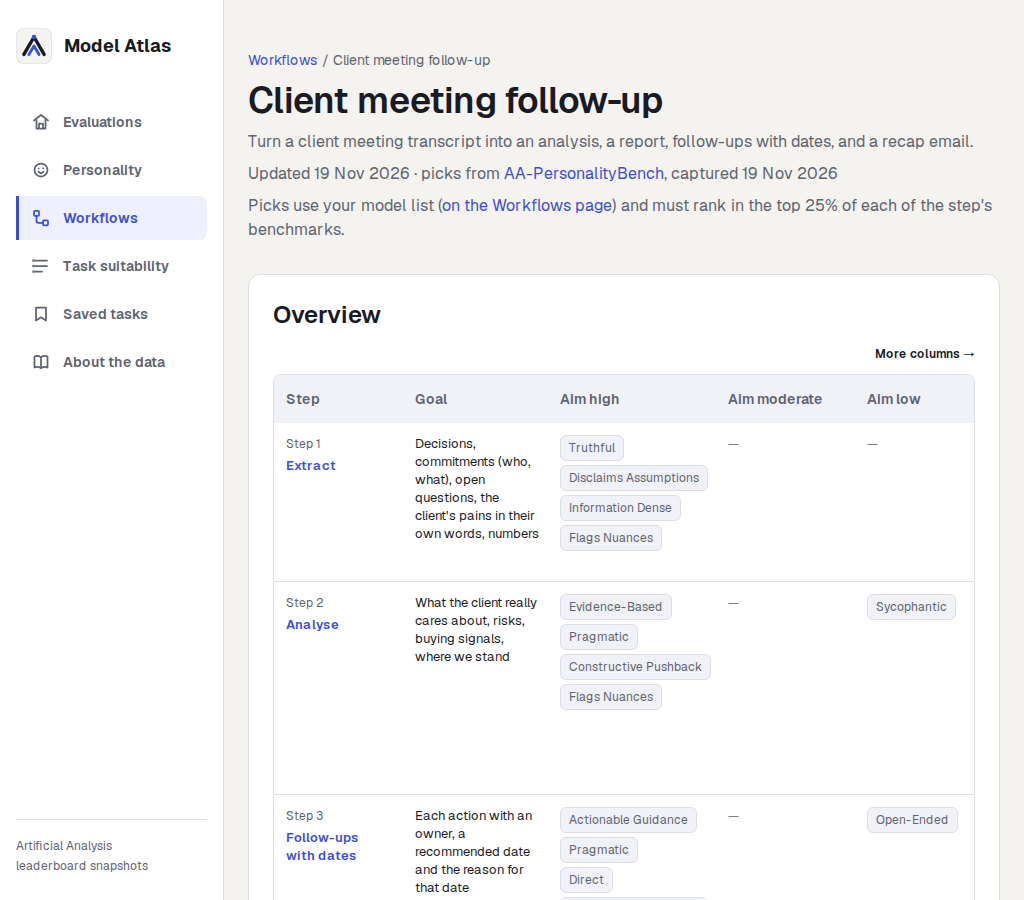
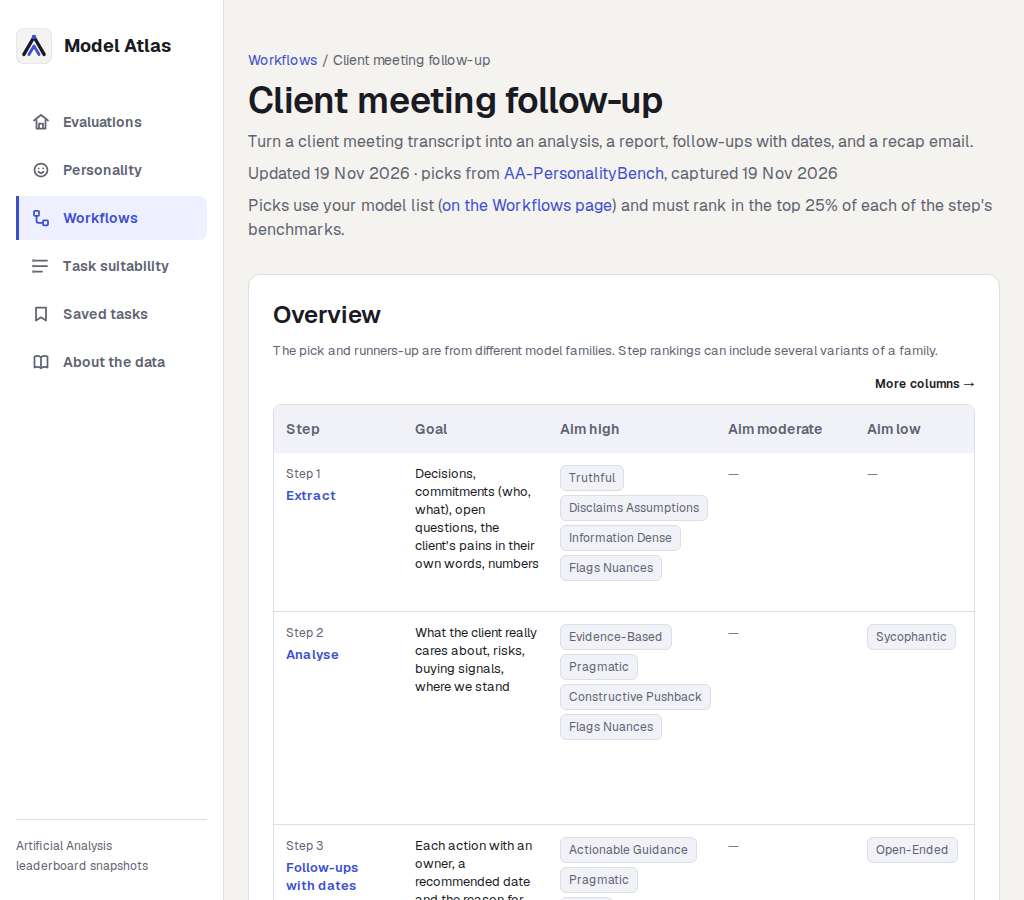
fix: clarify workflow rankings and phone scrolling
Explain distinct-family picks and phone column order, fill the catalog row, and recapture the hydrated fixture and shared workflow views.

diff --git a/tests/workflows.test.ts b/tests/workflows.test.ts
@@ -191,7 +191,7 @@ test("step notes show up to three higher-Fit families for each reason and every 
       { slug: omniscience, rank: 7, cohortSize: 16, barRank: 4 },
     ]],
     ["Beacon", [{ slug: briefcase, rank: null, cohortSize: 15, barRank: 3 }]],
-    ["Off-list miss", [{ slug: briefcase, rank: 8, cohortSize: 15, barRank: 3 }]],
+    ["Juniper", [{ slug: briefcase, rank: 8, cohortSize: 15, barRank: 3 }]],
   ]);
   assert.deepEqual(notOnList.map(row => row.model.name), ["Alternate (Max)", "Backup", "Contender"]);
   assert.deepEqual(skippedEvaluations, []);
@@ -543,8 +543,8 @@ test("a step with no pick shows a dash and explains why in the overview and deta
   assert.match(detail, noPick);
   assert.doesNotMatch(overview, /class="workflow-runners-up"/);
   assert.doesNotMatch(detail, /<table/);
-  assert.match(detail, /No model on your list clears the bar.*Higher Fit, below the bar.*Atlas \(Max\) \(Fit 99\): Briefcase v1\.1 #6 of 15, bar #3 \/ Omniscience Index #7 of 16, bar #4/);
-  assert.match(detail, /Beacon \(Fit 97\): Briefcase v1\.1 Not ranked, bar #3/);
+  assert.match(detail, /No model on your list clears the bar.*Higher Fit, below the bar.*Atlas \(Max\), Fit\u00a099: Briefcase v1\.1 #6 of 15, bar #3 \/ Omniscience Index #7 of 16, bar #4/);
+  assert.match(detail, /Beacon, Fit\u00a097: Briefcase v1\.1 Not ranked, bar #3/);
   assert.doesNotMatch(detail, /Higher Fit, not on your list/);
 });
 
@@ -556,12 +556,15 @@ test("the overview renders one runner-up and the detail ranks just the two eligi
     cells: Object.fromEntries(benchmarkStep.evaluations.map(slug => [slug, rankCell(slug, 2)])),
   }];
   const { overview, detail } = renderBenchmarkStep(benchmarkStep, dataset, masterRows);
+  assert.match(overview, /The pick and runners-up are from different model families\. Step rankings can include several variants of a family\./);
+  assert.match(overview, /Scroll past Pick for the goal, aims, and runners-up\./);
+  assert.match(overview, /<table aria-describedby="workflow-overview-help"/);
   const runners = overview.match(/<ul class="workflow-runners-up">(.*?)<\/ul>/)?.[1] ?? "";
   assert.match(runners, /<li><span class="workflow-pick-name">Runner-up<\/span>/);
   assert.equal(runners.match(/<li>/g)?.length, 1);
   assert.deepEqual(Array.from(detail.matchAll(/<td class="workflow-pinned workflow-model">([^<]+)<\/td>/g), match => match[1]), ["Pick", "Runner-up"]);
   assert.match(detail, /Only models on your list that clear the bar are ranked/);
-  assert.match(detail, /<\/table>.*Higher Fit, not on your list<\/strong> · Alternate \(Max\) \(Fit 93\)/);
+  assert.match(detail, /<\/table>.*Higher Fit, not on your list<\/strong> · Alternate \(Max\), Fit\u00a093/);
 });
 
 test("a skipped evaluation keeps its unranked column and names the benchmark once below the table", () => {

diff --git a/src/components/workflow-view.tsx b/src/components/workflow-view.tsx
@@ -52,6 +52,10 @@ function ModelPick({ row }: { row: RankedWorkflowModel }) {
   </>;
 }
 
+function noteModelLabel({ model, fit }: RankedWorkflowModel) {
+  return `${model.name}, Fit\u00a0${formatPercentile(fit)}`;
+}
+
 function WorkflowOverview({ steps, dataset, masterRows }: {
   steps: LabeledStep[];
   dataset: PersonalityDataset;
@@ -59,8 +63,12 @@ function WorkflowOverview({ steps, dataset, masterRows }: {
 }) {
   return <Card className="master workflow-table-card" aria-labelledby="workflow-overview">
     <h2 id="workflow-overview">Overview</h2>
+    <HelperText id="workflow-overview-help">
+      The pick and runners-up are from different model families. Step rankings can include several variants of a family.{" "}
+      <span className="workflow-overview-phone-help">Scroll past Pick for the goal, aims, and runners-up.</span>
+    </HelperText>
     <TableScroll label="Workflow overview, scroll horizontally for more columns" showOverflowCue>
-      <Table className="workflow-overview-table">
+      <Table className="workflow-overview-table" aria-describedby="workflow-overview-help">
         <thead><tr>
           <th scope="col" className="workflow-pinned">Step</th>
           <th scope="col" className="workflow-mobile-pick">Pick</th>
@@ -165,17 +173,17 @@ function WorkflowStepDetail({ step, dataset, masterRows }: {
     </TableScroll>}
     {belowBar.length > 0 && <HelperText>
       <strong>Higher Fit, below the bar</strong>{" · "}
-      {belowBar.map(({ model, fit, missedEvaluations }) => {
-        const misses = missedEvaluations.map(({ slug, rank, cohortSize, barRank }) => {
+      {belowBar.map(row => {
+        const misses = row.missedEvaluations.map(({ slug, rank, cohortSize, barRank }) => {
           const position = rank === null ? "Not ranked" : `#${rank} of ${cohortSize}`;
           return `${evaluationLabel(slug)} ${position}, bar #${barRank}`;
         });
-        return `${model.name} (Fit ${formatPercentile(fit)}): ${misses.join(" / ")}`;
+        return `${noteModelLabel(row)}: ${misses.join(" / ")}`;
       }).join("\u00a0· ")}
     </HelperText>}
     {notOnList.length > 0 && <HelperText>
       <strong>Higher Fit, not on your list</strong>{" · "}
-      {notOnList.map(({ model, fit }) => `${model.name} (Fit ${formatPercentile(fit)})`).join("\u00a0· ")}
+      {notOnList.map(noteModelLabel).join("\u00a0· ")}
     </HelperText>}
     {skippedEvaluations.length > 0 && <HelperText>
       <strong>Skipped by the bar</strong>{" · "}{skippedEvaluations.map(evaluationLabel).join(", ")}

diff --git a/src/app/globals.css b/src/app/globals.css
@@ -2326,7 +2326,7 @@ a.ui-button:hover {
 }
 
 .workflow-catalog {
-  grid-template-columns: repeat(auto-fill, minmax(min(100%, 18rem), 1fr));
+  grid-template-columns: repeat(auto-fit, minmax(min(100%, 18rem), 1fr));
 }
 
 .workflow-catalog,
@@ -2361,6 +2361,7 @@ a.ui-button:hover {
 .workflow-overview-table .workflow-aim-low { width: 11%; }
 .workflow-overview-table .workflow-desktop-pick { width: 14%; }
 .workflow-overview-table .workflow-mobile-pick { display: none; }
+.workflow-overview-phone-help { display: none; }
 
 :is(.workflow-overview-table, .workflow-rankings-table) th {
   height: 48px;
@@ -2494,6 +2495,10 @@ td.workflow-pinned {
 @media (max-width: 767px) {
   .master .workflow-overview-table {
     min-width: 76rem;
+  }
+
+  .workflow-overview-phone-help {
+    display: block;
   }
 
   .workflow-overview-table .workflow-goal {

diff --git a/docs/approved-looks.md b/docs/approved-looks.md
@@ -13,4 +13,6 @@
 - 1440px and 390px captures are one screen tall, so the bottom edge can cut through a table row, a header date or a card; the page continues below.
 - The archived Personality build's `desktop-all.png` and `phone-all.png` show the app before Workflows. The Workflows gallery contains current desktop and phone navigation captures.
 - The Workflows overview capture ends after the 15-row table. The detail cards and the page end are shown in separate captures.
+- Workflows overview rows keep the height of their tallest cell as columns scroll, so long runner-up names can leave space under shorter cells at 390px and 1024px.
+- The Workflows overview shows Pick next to the pinned Step column on phones. The scroll cues mark columns on either side, including partly visible columns at the frame edge.
 - Snapshot attribution sits in the desktop sidebar and in the page footer when the sidebar is hidden.
